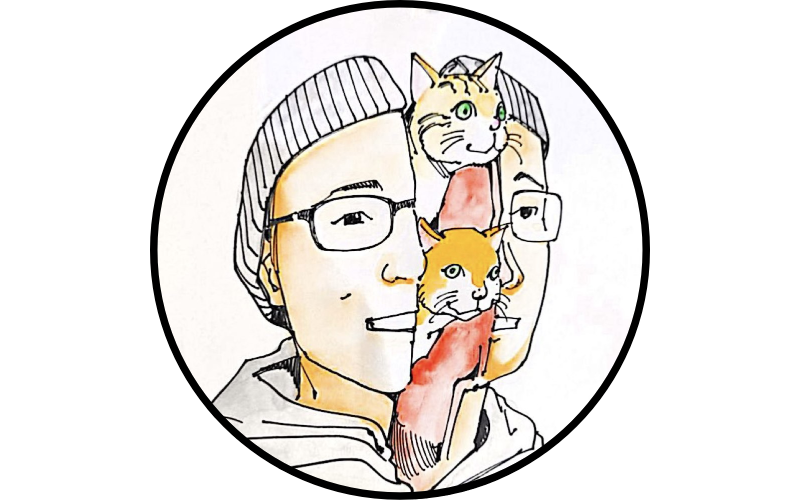
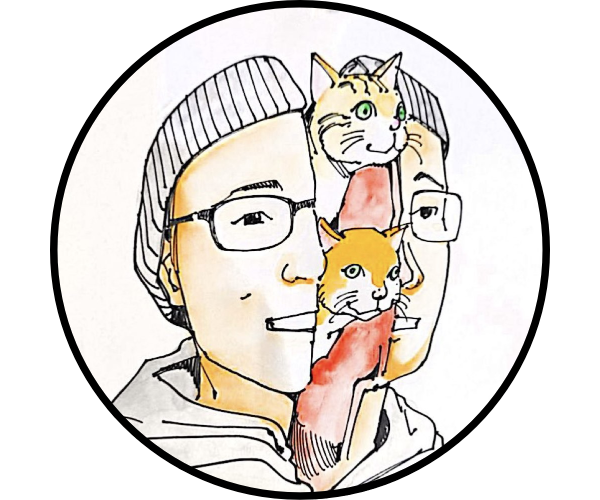
Rewrite layout: self-contained theme, centered two-pane, swup nav
- Drop GitHub minimal theme; centered 950px wrapper, fixed 350px
  sidebar + scrollable content
- Move bio to _includes/bio.html; reference portrait directly
- Hide scrollbars, disable overscroll bounce
- Contact list trimmed to he/him, pittsburgh, github
- Add swup (vendored) for flicker-free client-side navigation
- Add Gemfile (plain Jekyll 4) + .gitignore for local builds

Changed region(s): [[0.06, 0.0, 0.93, 1.0], [0.21, 0.12, 0.24, 0.15]]

diff --git a/assets/styles.css b/assets/styles.css
@@ -5,6 +5,7 @@ html, body {
 body {
   margin: 0;
   display: flex;
+  justify-content: center;          /* center the whole layout on wide screens */
   overflow: hidden;                 /* the panes scroll, not the page */
   background-color: #fcf4a3;
   font: 14px/1.5 Ubuntu;
@@ -12,10 +13,17 @@ body {
   font-weight: 300;
 }
 
-/* ---- layout: fixed sidebar, scrollable content ---- */
+/* ---- layout: centered wrapper, fixed sidebar, scrollable content ---- */
+
+.wrapper {
+  display: flex;
+  width: 100%;
+  max-width: 950px;                 /* keeps the layout centered, not edge-to-edge */
+  height: 100vh;
+}
 
 .sidebar {
-  flex: 0 0 270px;                  /* fixed width, never shrinks */
+  flex: 0 0 350px;                  /* fixed width, never shrinks */
   height: 100vh;
   box-sizing: border-box;
   padding: 50px;
@@ -33,6 +41,28 @@ body {
 
 .content > * {
   max-width: 640px;                 /* keep line length readable */
+}
+
+/* hide scrollbars (keep scrolling) and disable the rubber-band overscroll */
+.sidebar,
+.content {
+  overscroll-behavior: none;        /* no bounce / scroll chaining */
+  scrollbar-width: none;            /* Firefox */
+  -ms-overflow-style: none;         /* old Edge */
+}
+
+.sidebar::-webkit-scrollbar,
+.content::-webkit-scrollbar {
+  display: none;                    /* Chrome / Safari */
+}
+
+/* swup: fade the content pane during client-side navigation */
+.content {
+  transition: opacity 0.2s ease;
+}
+
+html.is-animating .content {
+  opacity: 0;
 }
 
 /* ---- sidebar bits ---- */
@@ -163,6 +193,12 @@ hr {
     word-wrap: break-word;
   }
 
+  .wrapper {
+    display: block;
+    max-width: none;
+    height: auto;
+  }
+
   .sidebar,
   .content {
     width: auto;
@@ -188,6 +224,12 @@ hr {
     padding: 0.4in;
     font-size: 12pt;
     color: #444;
+  }
+
+  .wrapper {
+    display: block;
+    max-width: none;
+    height: auto;
   }
 
   .sidebar, .content {

diff --git a/_layouts/default.html b/_layouts/default.html
@@ -1,3 +1,4 @@
+{%- capture bio -%}{% include bio.html %}{%- endcapture -%}
 <!DOCTYPE html>
 <html lang="en">
 
@@ -14,7 +15,7 @@
     <meta property="og:url" content="http://kianc.site">
     <meta property="og:type" content="website">
     <meta property="og:title" content="{{ site.title }}">
-    <meta property="og:description" content="{{ site.description }}">
+    <meta property="og:description" content="{{ bio | strip_newlines | strip }}">
     <meta property="og:image" content="http://kianc.site/assets/portrait.png">
 
     <link rel="stylesheet" href="{{ '/assets/styles.css' | relative_url }}">
@@ -22,15 +23,16 @@
   </head>
 
   <body>
+    <div class="wrapper">
     <aside class="sidebar">
       <header>
         <h1><a href="{{ '/' | relative_url }}">{{ site.title }}</a></h1>
         <img class="portrait" src="{{ '/assets/portrait.png' | relative_url }}" alt="Portrait of Kian" />
-        <p>{{ site.description }}</p>
+        <p class="bio">{{ bio }}</p>
         <p class="contact-info">
-          <span><i class="fa-solid fa-location-dot"></i> Pittsburgh, PA</span><br>
-          <span><i class="fa-brands fa-github"></i> <a href="https://github.com/toposes">Github</a></span><br>
-          <span><i class="fa-brands fa-linkedin"></i> <a href="https://www.linkedin.com/in/toposes">LinkedIn</a></span>
+          <span><i class="fa-solid fa-user"></i> he/him</span><br>
+          <span><i class="fa-solid fa-location-dot"></i> pittsburgh</span><br>
+          <span><i class="fa-brands fa-github"></i> <a href="https://github.com/toposes">toposes</a></span>
         </p>
 
         <hr>
@@ -42,9 +44,16 @@
       </header>
     </aside>
 
-    <main class="content">
+    <main id="swup" class="content">
       {{ content }}
     </main>
+    </div>
+
+    <!-- swup: client-side navigation so the sidebar (and portrait) never repaints -->
+    <script src="{{ '/assets/js/swup.umd.js' | relative_url }}"></script>
+    <script>
+      new Swup();
+    </script>
   </body>
 
 </html>

diff --git a/assets/js/swup.umd.js b/assets/js/swup.umd.js
@@ -1,0 +1,2 @@
+!function(t,e){"object"==typeof exports&&"undefined"!=typeof module?module.exports=e():"function"==typeof define&&define.amd?define(e):(t||self).Swup=e()}(this,function(){const t=new WeakMap;function e(e,n,o,i){if(!e&&!t.has(n))return!1;const r=t.get(n)??new WeakMap;t.set(n,r);const s=r.get(o)??new Set;r.set(o,s);const a=s.has(i);return e?s.add(i):s.delete(i),a&&e}const n=(t,e)=>String(t).toLowerCase().replace(/[\s/_.]+/g,"-").replace(/[^\w-]+/g,"").replace(/--+/g,"-").replace(/^-+|-+$/g,"")||e||"",o=({hash:t}={})=>window.location.pathname+window.location.search+(t?window.location.hash:""),i=(t=null,e={})=>{t=t||o({hash:!0});const n={...window.history.state||{},url:t,random:Math.random(),source:"swup",...e};window.history.replaceState(n,"",t)},r=(t,n,o,i)=>{const r=new AbortController;return function(t,n,o,i={}){const{signal:r,base:s=document}=i;if(r?.aborted)return;const{once:a,...c}=i,l=s instanceof Document?s.documentElement:s,h=Boolean("object"==typeof i?i.capture:i),u=i=>{const r=function(t,e){let n=t.target;if(n instanceof Text&&(n=n.parentElement),n instanceof Element&&t.currentTarget instanceof Node){const o=n.closest(e);if(o&&t.currentTarget.contains(o))return o}}(i,String(t));if(r){const t=Object.assign(i,{delegateTarget:r});o.call(l,t),a&&(l.removeEventListener(n,u,c),e(!1,l,o,d))}},d=JSON.stringify({selector:t,type:n,capture:h});e(!0,l,o,d)||l.addEventListener(n,u,c),r?.addEventListener("abort",()=>{e(!1,l,o,d)})}(t,n,o,i={...i,signal:r.signal}),{destroy:()=>r.abort()}};class s extends URL{constructor(t,e=document.baseURI){super(t.toString(),e),Object.setPrototypeOf(this,s.prototype)}get url(){return this.pathname+this.search}static fromElement(t){const e=t.getAttribute("href")||t.getAttribute("xlink:href")||"";return new s(e)}static fromUrl(t){return new s(t)}}const a=function(t,e={}){try{const o=this;function n(n){const{status:r,url:a}=u;return Promise.resolve(u.text()).then(function(n){if(500===r)throw o.hooks.call("fetch:error",i,{status:r,response:u,url:a}),new c(`Server error: ${a}`,{status:r,url:a});if(!n)throw new c(`Empty response: ${a}`,{status:r,url:a});const{url:l}=s.fromUrl(a),h={url:l,html:n};return!i.cache.write||e.method&&"GET"!==e.method||t!==l||o.cache.set(h.url,h),h})}t=s.fromUrl(t).url;const{visit:i=o.visit}=e,r={...o.options.requestHeaders,...e.headers},a=e.timeout??o.options.timeout,l=new AbortController,{signal:h}=l;e={...e,headers:r,signal:h};let u,d=!1,f=null;a&&a>0&&(f=setTimeout(()=>{d=!0,l.abort("timeout")},a));const m=function(n,r){try{var s=Promise.resolve(o.hooks.call("fetch:request",i,{url:t,options:e},(t,{url:e,options:n})=>fetch(e,n))).then(function(t){u=t,f&&clearTimeout(f)})}catch(t){return r(t)}return s&&s.then?s.then(void 0,r):s}(0,function(e){if(d)throw o.hooks.call("fetch:timeout",i,{url:t}),new c(`Request timed out: ${t}`,{url:t,timedOut:d});if("AbortError"===e?.name||h.aborted)throw new c(`Request aborted: ${t}`,{url:t,aborted:!0});throw e});return Promise.resolve(m&&m.then?m.then(n):n())}catch(p){return Promise.reject(p)}};class c extends Error{constructor(t,e){super(t),this.url=void 0,this.status=void 0,this.aborted=void 0,this.timedOut=void 0,this.name="FetchError",this.url=e.url,this.status=e.status,this.aborted=e.aborted||!1,this.timedOut=e.timedOut||!1}}class l{constructor(t){this.swup=void 0,this.pages=new Map,this.swup=t}get size(){return this.pages.size}get all(){const t=new Map;return this.pages.forEach((e,n)=>{t.set(n,{...e})}),t}has(t){return this.pages.has(this.resolve(t))}get(t){const e=this.pages.get(this.resolve(t));return e?{...e}:e}set(t,e){t=this.resolve(t),e={...e,url:t},this.pages.set(t,e),this.swup.hooks.callSync("cache:set",void 0,{page:e})}update(t,e){t=this.resolve(t);const n={...this.get(t),...e,url:t};this.pages.set(t,n)}delete(t){this.pages.delete(this.resolve(t))}clear(){this.pages.clear(),this.swup.hooks.callSync("cache:clear",void 0,void 0)}prune(t){this.pages.forEach((e,n)=>{t(n,e)&&this.delete(n)})}resolve(t){const{url:e}=s.fromUrl(t);return this.swup.resolveUrl(e)}}const h=(t,e=document)=>e.querySelector(t),u=(t,e=document)=>Array.from(e.querySelectorAll(t)),d=()=>new Promise(t=>{requestAnimationFrame(()=>{requestAnimationFrame(()=>{t()})})});function f(t){return!!t&&("object"==typeof t||"function"==typeof t)&&"function"==typeof t.then}function m(t,e){const n=t?.closest(`[${e}]`);return n?.hasAttribute(e)?n?.getAttribute(e)||!0:void 0}class p{constructor(t){this.swup=void 0,this.swupClasses=["to-","is-changing","is-rendering","is-popstate","is-animating","is-leaving"],this.swup=t}get selectors(){const{scope:t}=this.swup.visit.animation;return"containers"===t?this.swup.visit.containers:"html"===t?["html"]:Array.isArray(t)?t:[]}get selector(){return this.selectors.join(",")}get targets(){return this.selector.trim()?u(this.selector):[]}add(){this.targets.forEach(t=>t.classList.add(...[].slice.call(arguments)))}remove(){this.targets.forEach(t=>t.classList.remove(...[].slice.call(arguments)))}clear(){this.targets.forEach(t=>{const e=t.className.split(" ").filter(t=>this.isSwupClass(t));t.classList.remove(...e)})}isSwupClass(t){return this.swupClasses.some(e=>t.startsWith(e))}}class v{constructor(t,e){this.id=void 0,this.state=void 0,this.from=void 0,this.to=void 0,this.containers=void 0,this.animation=void 0,this.trigger=void 0,this.cache=void 0,this.history=void 0,this.scroll=void 0,this.meta=void 0;const{to:n,from:o,hash:i,el:r,event:s}=e;this.id=Math.random(),this.state=1,this.from={url:o??t.location.url,hash:t.location.hash},this.to={url:n,hash:i},this.containers=t.options.containers,this.animation={animate:!0,wait:!1,name:void 0,native:t.options.native,scope:t.options.animationScope,selector:t.options.animationSelector},this.trigger={el:r,event:s},this.cache={read:t.options.cache,write:t.options.cache},this.history={action:"push",popstate:!1,direction:void 0},this.scroll={reset:!0,target:void 0},this.meta={}}advance(t){this.state<t&&(this.state=t)}abort(){this.state=8}ignore(){this.state=10}get done(){return this.state>=7}get ignored(){return 10===this.state}}function g(t){return new v(this,t)}const w="undefined"!=typeof Symbol?Symbol.iterator||(Symbol.iterator=Symbol("Symbol.iterator")):"@@iterator";function y(t,e,n){if(!t.s){if(n instanceof k){if(!n.s)return void(n.o=y.bind(null,t,e));1&e&&(e=n.s),n=n.v}if(n&&n.then)return void n.then(y.bind(null,t,e),y.bind(null,t,2));t.s=e,t.v=n;const o=t.o;o&&o(t)}}const k=/*#__PURE__*/function(){function t(){}return t.prototype.then=function(e,n){const o=new t,i=this.s;if(i){const t=1&i?e:n;if(t){try{y(o,1,t(this.v))}catch(t){y(o,2,t)}return o}return this}return this.o=function(t){try{const i=t.v;1&t.s?y(o,1,e?e(i):i):n?y(o,1,n(i)):y(o,2,i)}catch(t){y(o,2,t)}},o},t}();function P(t){return t instanceof k&&1&t.s}class b{constructor(t){this.swup=void 0,this.registry=new Map,this.hooks=["animation:out:start","animation:out:await","animation:out:end","animation:in:start","animation:in:await","animation:in:end","animation:skip","cache:clear","cache:set","content:replace","content:scroll","enable","disable","fetch:request","fetch:error","fetch:timeout","history:popstate","link:click","link:self","link:anchor","link:newtab","page:load","page:view","scroll:top","scroll:anchor","visit:start","visit:transition","visit:abort","visit:end"],this.nextHookId=0,this.swup=t,this.init()}init(){this.hooks.forEach(t=>this.create(t))}create(t){this.registry.has(t)||this.registry.set(t,new Map)}exists(t){return this.registry.has(t)}get(t){const e=this.registry.get(t);if(e)return e;console.error(`Unknown hook '${t}'`)}clear(){this.registry.forEach(t=>t.clear())}on(t,e,n={}){const o=this.get(t);if(!o)return console.warn(`Hook '${t}' not found.`),()=>{};const i={...n,id:++this.nextHookId,hook:t,handler:e};return o.set(e,i),()=>this.off(t,e)}before(t,e,n={}){return this.on(t,e,{...n,before:!0})}replace(t,e,n={}){return this.on(t,e,{...n,replace:!0})}once(t,e,n={}){return this.on(t,e,{...n,once:!0})}off(t,e){const n=this.get(t);n&&e?n.delete(e)||console.warn(`Handler for hook '${t}' not found.`):n&&n.clear()}call(t,e,n,o){try{const i=this,[r,s,a]=i.parseCallArgs(t,e,n,o),{before:c,handler:l,after:h}=i.getHandlers(t,a);return Promise.resolve(i.run(c,r,s)).then(function(){return Promise.resolve(i.run(l,r,s,!0)).then(function([e]){return Promise.resolve(i.run(h,r,s)).then(function(){return i.dispatchDomEvent(t,r,s),e})})})}catch(t){return Promise.reject(t)}}callSync(t,e,n,o){const[i,r,s]=this.parseCallArgs(t,e,n,o),{before:a,handler:c,after:l}=this.getHandlers(t,s);this.runSync(a,i,r);const[h]=this.runSync(c,i,r,!0);return this.runSync(l,i,r),this.dispatchDomEvent(t,i,r),h}parseCallArgs(t,e,n,o){return e instanceof v||"object"!=typeof e&&"function"!=typeof n?[e,n,o]:[void 0,e,n]}run(t,e,n,o=!1){try{let i;const r=this;void 0===e&&(e=r.swup.visit);const s=[],a=function(t,e,n){if("function"==typeof t[w]){var o,i,r,s=t[w]();if(function t(a){try{for(;!((o=s.next()).done||n&&n());)if((a=e(o.value))&&a.then){if(!P(a))return void a.then(t,r||(r=y.bind(null,i=new k,2)));a=a.v}i?y(i,1,a):i=a}catch(t){y(i||(i=new k),2,t)}}(),s.return){var a=function(t){try{o.done||s.return()}catch(t){}return t};if(i&&i.then)return i.then(a,function(t){throw a(t)});a()}return i}if(!("length"in t))throw new TypeError("Object is not iterable");for(var c=[],l=0;l<t.length;l++)c.push(t[l]);return function(t,e,n){var o,i,r=-1;return function s(a){try{for(;++r<t.length&&(!n||!n());)if((a=e(r))&&a.then){if(!P(a))return void a.then(s,i||(i=y.bind(null,o=new k,2)));a=a.v}o?y(o,1,a):o=a}catch(t){y(o||(o=new k),2,t)}}(),o}(c,function(t){return e(c[t])},n)}(t,function({hook:t,handler:i,defaultHandler:a,once:c}){if(!e?.done)return c&&r.off(t,i),function(t,o){try{var r=Promise.resolve(function(t,e=[]){return new Promise((n,o)=>{const i=t(...e);f(i)?i.then(n,o):n(i)})}(i,[e,n,a])).then(function(t){s.push(t)})}catch(t){return o(t)}return r&&r.then?r.then(void 0,o):r}(0,function(e){if(o)throw e;console.error(`Error in hook '${t}':`,e)})},function(){return i});return Promise.resolve(a&&a.then?a.then(function(t){return i?t:s}):i?a:s)}catch(t){return Promise.reject(t)}}runSync(t,e=this.swup.visit,n,o=!1){const i=[];for(const{hook:r,handler:s,defaultHandler:a,once:c}of t)if(!e?.done){c&&this.off(r,s);try{const t=s(e,n,a);i.push(t),f(t)&&console.warn(`Swup will not await Promises in handler for synchronous hook '${r}'.`)}catch(t){if(o)throw t;console.error(`Error in hook '${r}':`,t)}}return i}getHandlers(t,e){const n=this.get(t);if(!n)return{found:!1,before:[],handler:[],after:[],replaced:!1};const o=Array.from(n.values()),i=this.sortRegistrations,r=o.filter(({before:t,replace:e})=>t&&!e).sort(i),s=o.filter(({replace:t})=>t).filter(t=>!0).sort(i),a=o.filter(({before:t,replace:e})=>!t&&!e).sort(i),c=s.length>0;let l=[];if(e&&(l=[{id:0,hook:t,handler:e}],c)){const n=s.length-1,{handler:o,once:i}=s[n],r=t=>{const n=s[t-1];return n?(e,o)=>n.handler(e,o,r(t-1)):e};l=[{id:0,hook:t,once:i,handler:o,defaultHandler:r(n)}]}return{found:!0,before:r,handler:l,after:a,replaced:c}}sortRegistrations(t,e){return(t.priority??0)-(e.priority??0)||t.id-e.id||0}dispatchDomEvent(t,e,n){if(e?.done)return;const o={hook:t,args:n,visit:e||this.swup.visit};document.dispatchEvent(new CustomEvent("swup:any",{detail:o,bubbles:!0})),document.dispatchEvent(new CustomEvent(`swup:${t}`,{detail:o,bubbles:!0}))}parseName(t){const[e,...n]=t.split(".");return[e,n.reduce((t,e)=>({...t,[e]:!0}),{})]}}const S=t=>{if(t&&"#"===t.charAt(0)&&(t=t.substring(1)),!t)return null;const e=decodeURIComponent(t);let n=document.getElementById(t)||document.getElementById(e)||h(`a[name='${CSS.escape(t)}']`)||h(`a[name='${CSS.escape(e)}']`);return n||"top"!==t||(n=document.body),n},E=function({selector:t,elements:e}){try{if(!1===t&&!e)return Promise.resolve();let n=[];if(e)n=Array.from(e);else if(t&&(n=u(t,document.body),!n.length))return console.warn(`[swup] No elements found matching animationSelector \`${t}\``),Promise.resolve();const o=n.map(t=>function(t){const{type:e,timeout:n,propCount:o}=function(t){const e=window.getComputedStyle(t),n=x(e,`${C}Delay`),o=x(e,`${C}Duration`),i=$(n,o),r=x(e,`${U}Delay`),s=x(e,`${U}Duration`),a=$(r,s),c=Math.max(i,a),l=c>0?i>a?C:U:null;return{type:l,timeout:c,propCount:l?l===C?o.length:s.length:0}}(t);return!(!e||!n)&&new Promise(i=>{const r=`${e}end`,s=performance.now();let a=0;const c=()=>{t.removeEventListener(r,l),i()},l=e=>{e.target===t&&((performance.now()-s)/1e3<e.elapsedTime||++a>=o&&c())};setTimeout(()=>{a<o&&c()},n+1),t.addEventListener(r,l)})}(t)).filter(t=>!1!==t);return o.length?Promise.resolve(Promise.all(o)).then(function(){}):(t&&console.warn(`[swup] No CSS animation duration defined on elements matching \`${t}\``),Promise.resolve())}catch(t){return Promise.reject(t)}},C="transition",U="animation";function x(t,e){return(t[e]||"").split(", ")}function $(t,e){for(;t.length<e.length;)t=t.concat(t);return Math.max(...e.map((e,n)=>A(e)+A(t[n])))}function A(t){return 1e3*parseFloat(t)}const H=function(t,e={}){try{let a;const c=this;function r(r){if(a)return r;c.navigating=!0,c.visit=t;const{el:l}=t.trigger;e.referrer=e.referrer||c.location.url,!1===e.animate&&(t.animation.animate=!1),t.animation.animate||c.classes.clear();const h=e.history||m(l,"data-swup-history");"string"==typeof h&&["push","replace"].includes(h)&&(t.history.action=h);const u=e.animation||m(l,"data-swup-animation");return"string"==typeof u&&(t.animation.name=u),t.meta=e.meta||{},"object"==typeof e.cache?(t.cache.read=e.cache.read??t.cache.read,t.cache.write=e.cache.write??t.cache.write):void 0!==e.cache&&(t.cache={read:!!e.cache,write:!!e.cache}),delete e.cache,function(r,a){try{var l=function(r,a){try{var l=Promise.resolve(c.hooks.call("visit:start",t,void 0)).then(function(){function r(){if(t.ignored)throw new Error(`Visit to ${t.to.url} manually ignored`);if(!t.done)return Promise.resolve(c.hooks.call("visit:transition",t,void 0,function(){try{let n;function e(e){return n?e:(t.advance(4),Promise.resolve(c.animatePageOut(t)).then(function(){function e(){return Promise.resolve(c.animatePageIn(t)).then(function(){})}const n=function(){if(t.animation.native&&document.startViewTransition)return Promise.resolve(document.startViewTransition(function(){try{const e=c.renderPage;return Promise.resolve(a).then(function(n){return Promise.resolve(e.call(c,t,n))})}catch(t){return Promise.reject(t)}}).finished).then(function(){});{const e=c.renderPage;return Promise.resolve(a).then(function(n){return Promise.resolve(e.call(c,t,n)).then(function(){})})}}();return n&&n.then?n.then(e):e()}))}const o=function(){if(!t.animation.animate)return Promise.resolve(c.hooks.call("animation:skip",void 0)).then(function(){const e=c.renderPage;return Promise.resolve(a).then(function(o){return Promise.resolve(e.call(c,t,o)).then(function(){n=1})})})}();return Promise.resolve(o&&o.then?o.then(e):e(o))}catch(i){return Promise.reject(i)}})).then(function(){if(!t.done)return Promise.resolve(c.hooks.call("visit:end",t,void 0,()=>c.classes.clear())).then(function(){t.state=7,c.navigating=!1,c.onVisitEnd&&(c.onVisitEnd(),c.onVisitEnd=void 0)})})}t.state=3;const a=c.hooks.call("page:load",t,{options:e},function(t,e){try{function n(t){return e.page=t,e.cache=!!o,e.page}let o;return t.cache.read&&(o=c.cache.get(t.to.url)),Promise.resolve(o?n(o):Promise.resolve(c.fetchPage(t.to.url,e.options)).then(n))}catch(i){return Promise.reject(i)}});a.then(({html:e})=>{t.advance(5),t.to.html=e,t.to.document=(new DOMParser).parseFromString(e,"text/html")});const l=t.to.url+t.to.hash;t.history.popstate||("replace"===t.history.action||t.to.url===c.location.url?i(l):(c.currentHistoryIndex++,((t,e={})=>{const n={url:t=t||o({hash:!0}),random:Math.random(),source:"swup",...e};window.history.pushState(n,"",t)})(l,{index:c.currentHistoryIndex}))),c.location=s.fromUrl(l),t.history.popstate&&c.classes.add("is-popstate"),t.animation.name&&c.classes.add(`to-${n(t.animation.name)}`);const h=function(){if(t.animation.wait)return Promise.resolve(a).then(function(){})}();return h&&h.then?h.then(r):r()})}catch(t){return a(t)}return l&&l.then?l.then(void 0,a):l}(0,function(e){e&&!e?.aborted?(t.advance(9),console.error(e),c.options.skipPopStateHandling=()=>(window.location.assign(t.to.url+t.to.hash),!0),window.history.back()):t.advance(8)})}catch(t){return a(!0,t)}return l&&l.then?l.then(a.bind(null,!1),a.bind(null,!0)):a(!1,l)}(0,function(e,n){if(delete t.to.document,e)throw n;return n})}const l=function(){if(c.navigating)return function(){if(!(c.visit.state>=6))return Promise.resolve(c.hooks.call("visit:abort",c.visit,void 0)).then(function(){delete c.visit.to.document,c.visit.state=8});t.state=2,c.onVisitEnd=()=>c.performNavigation(t,e),a=1}()}();return Promise.resolve(l&&l.then?l.then(r):r(l))}catch(h){return Promise.reject(h)}};function T(t,e={},n={}){if("string"!=typeof t)throw new Error("swup.navigate() requires a URL parameter");if(this.shouldIgnoreVisit(t,{el:n.el,event:n.event}))return void window.location.assign(t);const{url:o,hash:i}=s.fromUrl(t),r=this.createVisit({...n,to:o,hash:i});this.performNavigation(r,e)}const j=function(t){try{const e=this;return Promise.resolve(e.hooks.call("animation:out:start",t,void 0,()=>{e.classes.add("is-changing","is-animating","is-leaving")})).then(function(){return Promise.resolve(e.hooks.call("animation:out:await",t,{skip:!1},(t,{skip:n})=>{if(!n)return e.awaitAnimations({selector:t.animation.selector})})).then(function(){return Promise.resolve(e.hooks.call("animation:out:end",t,void 0)).then(function(){})})})}catch(t){return Promise.reject(t)}},L=function(t){const e=t.to.document;if(!e)return!1;const n=e.querySelector("title")?.innerText||"";document.title=n;const o=u('[data-swup-persist]:not([data-swup-persist=""])'),i=t.containers.map(t=>{const n=document.querySelector(t),o=e.querySelector(t);return n&&o?(n.replaceWith(o.cloneNode(!0)),!0):(n||console.warn(`[swup] Container missing in current document: ${t}`),o||console.warn(`[swup] Container missing in incoming document: ${t}`),!1)}).filter(Boolean);return o.forEach(t=>{const e=t.getAttribute("data-swup-persist"),n=h(`[data-swup-persist="${e}"]`);n&&n!==t&&n.replaceWith(t)}),i.length===t.containers.length},I=function(t){const e={behavior:"auto"},{target:n,reset:o}=t.scroll,i=n??t.to.hash;let r=!1;return i&&(r=this.hooks.callSync("scroll:anchor",t,{hash:i,options:e},(t,{hash:e,options:n})=>{const o=this.getAnchorElement(e);return o&&o.scrollIntoView(n),!!o})),o&&!r&&(r=this.hooks.callSync("scroll:top",t,{options:e},(t,{options:e})=>(window.scrollTo({top:0,left:0,...e}),!0))),r},V=function(t){try{const e=this;if(t.done)return Promise.resolve();const n=e.hooks.call("animation:in:await",t,{skip:!1},(t,{skip:n})=>{if(!n)return e.awaitAnimations({selector:t.animation.selector})});return Promise.resolve(d()).then(function(){return Promise.resolve(e.hooks.call("animation:in:start",t,void 0,()=>{e.classes.remove("is-animating")})).then(function(){return Promise.resolve(n).then(function(){return Promise.resolve(e.hooks.call("animation:in:end",t,void 0)).then(function(){})})})})}catch(t){return Promise.reject(t)}},N=function(t,e){try{const r=this;if(t.done)return Promise.resolve();t.advance(6);const{url:a}=e;return r.isSameResolvedUrl(o(),a)||(i(a),r.location=s.fromUrl(a),t.to.url=r.location.url,t.to.hash=r.location.hash),Promise.resolve(r.hooks.call("content:replace",t,{page:e},(t,{})=>{if(r.classes.remove("is-leaving"),t.animation.animate&&r.classes.add("is-rendering"),!r.replaceContent(t))throw new Error("[swup] Container mismatch, aborting");t.animation.animate&&(r.classes.add("is-changing","is-animating","is-rendering"),t.animation.name&&r.classes.add(`to-${n(t.animation.name)}`))})).then(function(){return Promise.resolve(r.hooks.call("content:scroll",t,void 0,()=>r.scrollToContent(t))).then(function(){return Promise.resolve(r.hooks.call("page:view",t,{url:r.location.url,title:document.title})).then(function(){})})})}catch(t){return Promise.reject(t)}},q=function(t){var e;if(e=t,Boolean(e?.isSwupPlugin)){if(t.swup=this,!t._checkRequirements||t._checkRequirements())return t._beforeMount&&t._beforeMount(),t.mount(),this.plugins.push(t),this.plugins}else console.error("Not a swup plugin instance",t)};function R(t){const e=this.findPlugin(t);if(e)return e.unmount(),e._afterUnmount&&e._afterUnmount(),this.plugins=this.plugins.filter(t=>t!==e),this.plugins;console.error("No such plugin",e)}function O(t){return this.plugins.find(e=>"string"==typeof t?[`Swup${t}`,t].includes(e.name):e===t)}function D(t){if("function"!=typeof this.options.resolveUrl)return console.warn("[swup] options.resolveUrl expects a callback function."),t;const e=this.options.resolveUrl(t);return e&&"string"==typeof e?e.startsWith("//")||e.startsWith("http")?(console.warn("[swup] options.resolveUrl needs to return a relative url"),t):e:(console.warn("[swup] options.resolveUrl needs to return a url"),t)}function M(t,e){return this.resolveUrl(t)===this.resolveUrl(e)}const W={animateHistoryBrowsing:!1,animationSelector:'[class*="transition-"]',animationScope:"html",cache:!0,containers:["#swup"],hooks:{},ignoreVisit:(t,{el:e}={})=>!!e?.closest("[data-no-swup]"),linkSelector:"a[href]",linkToSelf:"scroll",native:!1,plugins:[],resolveUrl:t=>t,requestHeaders:{"X-Requested-With":"swup",Accept:"text/html, application/xhtml+xml"},skipPopStateHandling:t=>"swup"!==t.state?.source,timeout:0};return class{get currentPageUrl(){return this.location.url}constructor(t={}){this.version="4.9.2",this.options=void 0,this.defaults=W,this.plugins=[],this.visit=void 0,this.cache=void 0,this.hooks=void 0,this.classes=void 0,this.location=s.fromUrl(window.location.href),this.currentHistoryIndex=void 0,this.clickDelegate=void 0,this.navigating=!1,this.onVisitEnd=void 0,this.use=q,this.unuse=R,this.findPlugin=O,this.log=()=>{},this.navigate=T,this.performNavigation=H,this.createVisit=g,this.delegateEvent=r,this.fetchPage=a,this.awaitAnimations=E,this.renderPage=N,this.replaceContent=L,this.animatePageIn=V,this.animatePageOut=j,this.scrollToContent=I,this.getAnchorElement=S,this.getCurrentUrl=o,this.resolveUrl=D,this.isSameResolvedUrl=M,this.options={...this.defaults,...t},this.handleLinkClick=this.handleLinkClick.bind(this),this.handlePopState=this.handlePopState.bind(this),this.cache=new l(this),this.classes=new p(this),this.hooks=new b(this),this.visit=this.createVisit({to:""}),this.currentHistoryIndex=window.history.state?.index??1,this.enable()}enable(){try{const t=this,{linkSelector:e}=t.options;t.clickDelegate=t.delegateEvent(e,"click",t.handleLinkClick),window.addEventListener("popstate",t.handlePopState),t.options.animateHistoryBrowsing&&(window.history.scrollRestoration="manual"),t.options.native=t.options.native&&!!document.startViewTransition,t.options.plugins.forEach(e=>t.use(e));for(const[e,n]of Object.entries(t.options.hooks)){const[o,i]=t.hooks.parseName(e);t.hooks.on(o,n,i)}return"swup"!==window.history.state?.source&&i(null,{index:t.currentHistoryIndex}),Promise.resolve(d()).then(function(){return Promise.resolve(t.hooks.call("enable",void 0,void 0,()=>{const e=document.documentElement;e.classList.add("swup-enabled"),e.classList.toggle("swup-native",t.options.native)})).then(function(){})})}catch(t){return Promise.reject(t)}}destroy(){try{const t=this;return t.clickDelegate.destroy(),window.removeEventListener("popstate",t.handlePopState),t.cache.clear(),t.plugins.forEach(e=>t.unuse(e)),Promise.resolve(t.hooks.call("disable",void 0,void 0,()=>{const t=document.documentElement;t.classList.remove("swup-enabled"),t.classList.remove("swup-native")})).then(function(){t.hooks.clear()})}catch(t){return Promise.reject(t)}}shouldIgnoreVisit(t,{el:e,event:n}={}){const{origin:o,url:i,hash:r}=s.fromUrl(t);return o!==window.location.origin||!(!e||!this.triggerWillOpenNewWindow(e))||!!this.options.ignoreVisit(i+r,{el:e,event:n})}handleLinkClick(t){const e=t.delegateTarget,{href:n,url:o,hash:r}=s.fromElement(e);if(this.shouldIgnoreVisit(n,{el:e,event:t}))return;if(this.navigating&&o===this.visit.to.url)return void t.preventDefault();const a=this.createVisit({to:o,hash:r,el:e,event:t});t.metaKey||t.ctrlKey||t.shiftKey||t.altKey?this.hooks.callSync("link:newtab",a,{href:n}):0===t.button&&this.hooks.callSync("link:click",a,{el:e,event:t},()=>{const e=a.from.url??"";t.preventDefault(),o&&o!==e?this.isSameResolvedUrl(o,e)||this.performNavigation(a):r?this.hooks.callSync("link:anchor",a,{hash:r},()=>{i(o+r),this.scrollToContent(a)}):this.hooks.callSync("link:self",a,void 0,()=>{"navigate"===this.options.linkToSelf?this.performNavigation(a):(i(o),this.scrollToContent(a))})})}handlePopState(t){const e=t.state?.url??window.location.href;if(this.options.skipPopStateHandling(t))return;if(this.isSameResolvedUrl(o(),this.location.url))return;const{url:n,hash:i}=s.fromUrl(e),r=this.createVisit({to:n,hash:i,event:t});r.history.popstate=!0;const a=t.state?.index??0;a&&a!==this.currentHistoryIndex&&(r.history.direction=a-this.currentHistoryIndex>0?"forwards":"backwards",this.currentHistoryIndex=a),r.animation.animate=!1,r.scroll.reset=!1,r.scroll.target=!1,this.options.animateHistoryBrowsing&&(r.animation.animate=!0,r.scroll.reset=!0),this.hooks.callSync("history:popstate",r,{event:t},()=>{this.performNavigation(r)})}triggerWillOpenNewWindow(t){return!!t.matches('[download], [target="_blank"]')}}});
+//# sourceMappingURL=Swup.umd.js.map

diff --git a/_includes/bio.html b/_includes/bio.html
@@ -1,0 +1,1 @@
+Hello, I am Kian. I am a category theory enjoyer, a stack of cats in trench coat, or a horrible goose.